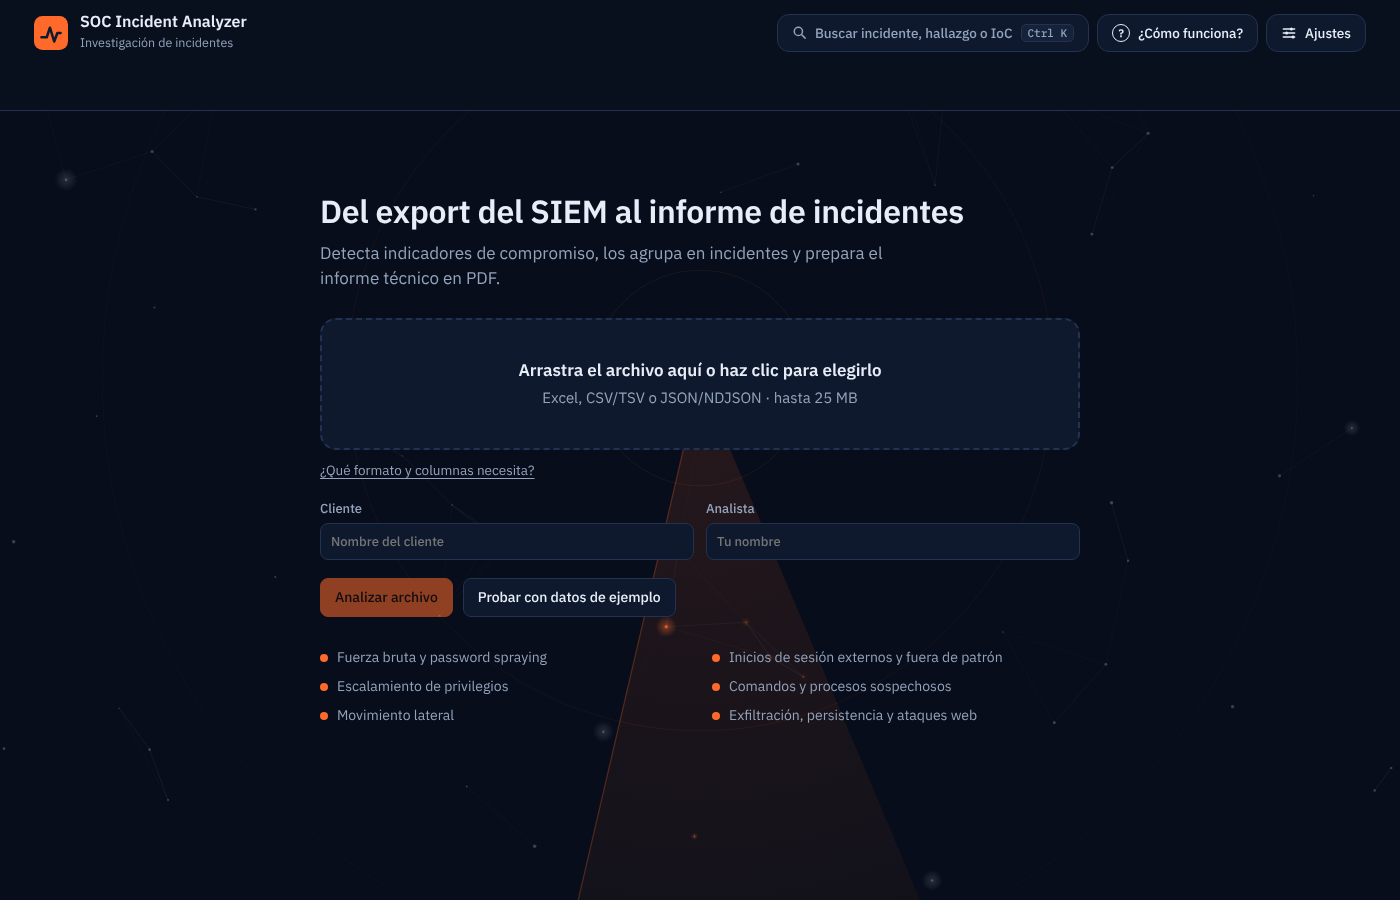
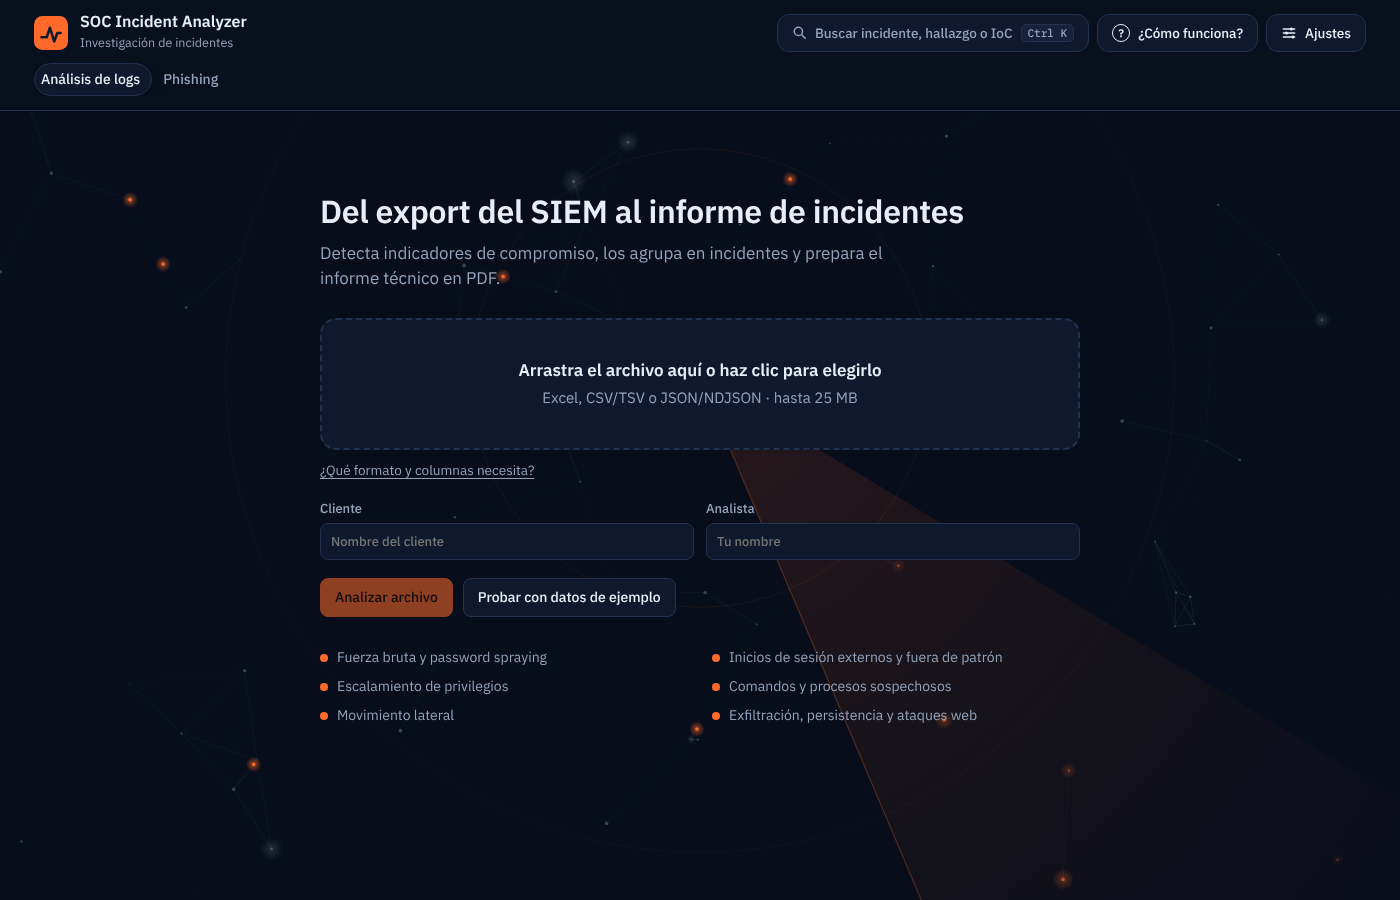
Add files via upload

diff --git a/README.md b/README.md
@@ -68,9 +68,9 @@ Las IP y los datos del ejemplo son sintéticos (rangos de documentación RFC 573
 
 ## Capturas
 
-**Inicio: carga del archivo o prueba con datos de ejemplo**
+**Inicio: carga del archivo o prueba con datos de ejemplo** (arriba, las pestañas «Análisis de logs» y «Phishing»)
 
-![Pantalla de inicio con la zona de carga y el botón de datos de ejemplo](img/Inicio.png)
+![Pantalla de inicio con las pestañas Análisis de logs y Phishing, la zona de carga y el botón de datos de ejemplo](img/Inicio.png)
 
 **Panel: resumen e incidentes detectados**
 
@@ -111,6 +111,44 @@ Las IP y los datos del ejemplo son sintéticos (rangos de documentación RFC 573
 **Informe técnico generado**
 
 [Ver el informe de ejemplo en PDF](examples/informe-ejemplo.pdf) (29 páginas: resumen ejecutivo, 6 incidentes, hallazgos con evidencia, plan de acción y recomendaciones). El nombre del cliente es ficticio.
+
+### Análisis de correos (phishing)
+
+**Phishing: carga de uno o varios `.eml`, con el campo opcional «Remitente esperado»**
+
+![Pantalla de carga de correos con el campo Remitente esperado](img/Phishing-inicio.png)
+
+**Resultados: los 10 correos de ejemplo ordenados por criticidad, con veredicto y puntaje**
+
+![Tabla de correos analizados con criticidad, remitente, veredicto y puntaje](img/Phishing-resultados.png)
+
+**Homógrafos: desglose carácter por carácter de un remitente con una «о» cirílica (U+043E) que parece latina**
+
+![Desglose de caracteres del remitente con la letra cirílica resaltada](img/Phishing-homografo.png)
+
+**Remitente esperado: se escribe la dirección legítima y la app señala qué letra cambió**
+
+![Campo Remitente esperado completado con la dirección legítima](img/Phishing-remitente-esperado.png)
+
+![Resultado que indica que la «I» mayúscula de la posición 15 reemplaza a una «l» minúscula](img/Phishing-esperado-resultado.png)
+
+**Informe en PDF del análisis de correos** (los caracteres fuera del alfabeto latino se muestran como `[U+XXXX]`)
+
+![Página del informe PDF con señales, verificación de caracteres y qué verificar](img/Informe-phishing.png)
+
+**Ayuda: «¿Cómo funciona?» tiene una sección para el análisis de logs y otra para phishing**
+
+![Ventana de ayuda con la sección de phishing abierta](img/Como-funciona-phishing.png)
+
+### Captcha local opcional (`CAPTCHA=on`)
+
+**Imágenes: marcar las 3 que muestran la misma figura, aunque estén giradas o de otro color**
+
+![Captcha de imágenes con seis figuras de dispositivos](img/Captcha-imagenes.png)
+
+**Rompecabezas deslizante: arrastrar la pieza hasta el hueco correcto**
+
+![Captcha de rompecabezas deslizante](img/Captcha-rompecabezas.png)
 
 ## Instalación y ejecución (Ubuntu 24.04)
 

diff --git a/CHANGELOG.md b/CHANGELOG.md
@@ -5,6 +5,7 @@ Formato basado en [Keep a Changelog](https://keepachangelog.com/es-ES/1.1.0/) y 
 ## [Sin publicar]
 
 ### Añadido
+- README: capturas nuevas del análisis de correos (carga, resultados, homógrafos, remitente esperado, informe PDF), de la ayuda y de los dos tipos de captcha; la captura de inicio ahora muestra las pestañas «Análisis de logs» y «Phishing».
 - **«¿Cómo funciona?» con dos secciones** (Análisis de logs y Phishing): se abre en la que corresponde a la pantalla actual. La guía para guardar un correo como `.eml` pasó de la pantalla de carga a la sección de Phishing, y el campo «Remitente esperado» ya no trae una dirección de ejemplo.
 - **Ataques homógrafos en el módulo de phishing** (`backend/homograph.py`): alfabetos mezclados en una misma palabra (a latina/cirílica, o griega), «I» mayúscula por «l» minúscula, cifras por letras, `rn`/`m`, caracteres invisibles y de dirección, dominios escritos solo con letras que imitan las latinas, dominios IDN y `xn--` decodificados. Se revisan el remitente, el Reply-To, el Return-Path, el nombre visible y los dominios de los enlaces. Desglose carácter por carácter (código Unicode, nombre y alfabeto) en la interfaz y en el PDF; el PDF muestra los caracteres fuera de Latin-1 como `[U+XXXX]` en vez de glifos faltantes.
 - **Remitente esperado** (campo opcional al subir): compara carácter por carácter y señala la letra cambiada. Si se ve igual pero no es la misma, el correo es Crítico. También se comparan entre sí remitente, Reply-To, Return-Path y la dirección del nombre visible, y el dominio del remitente contra el del destinatario.
